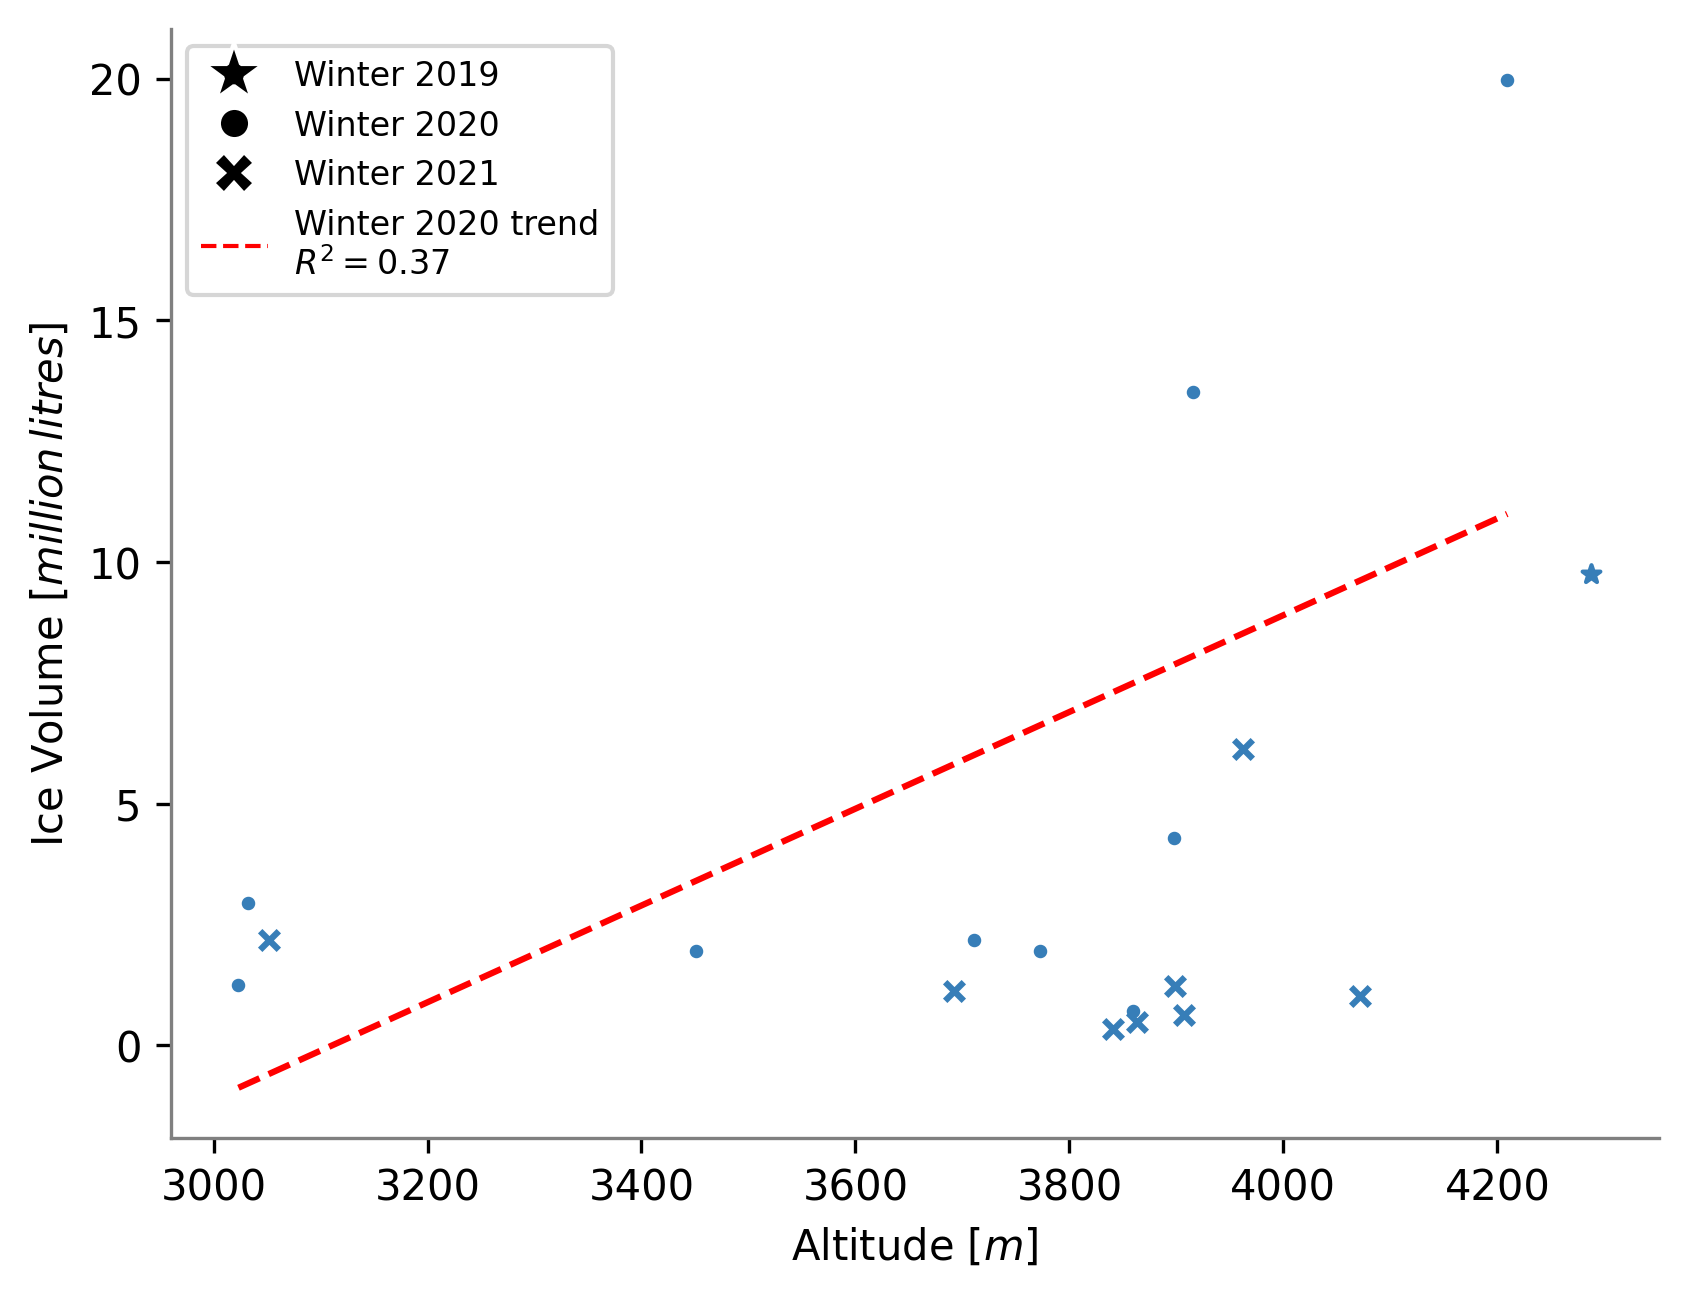
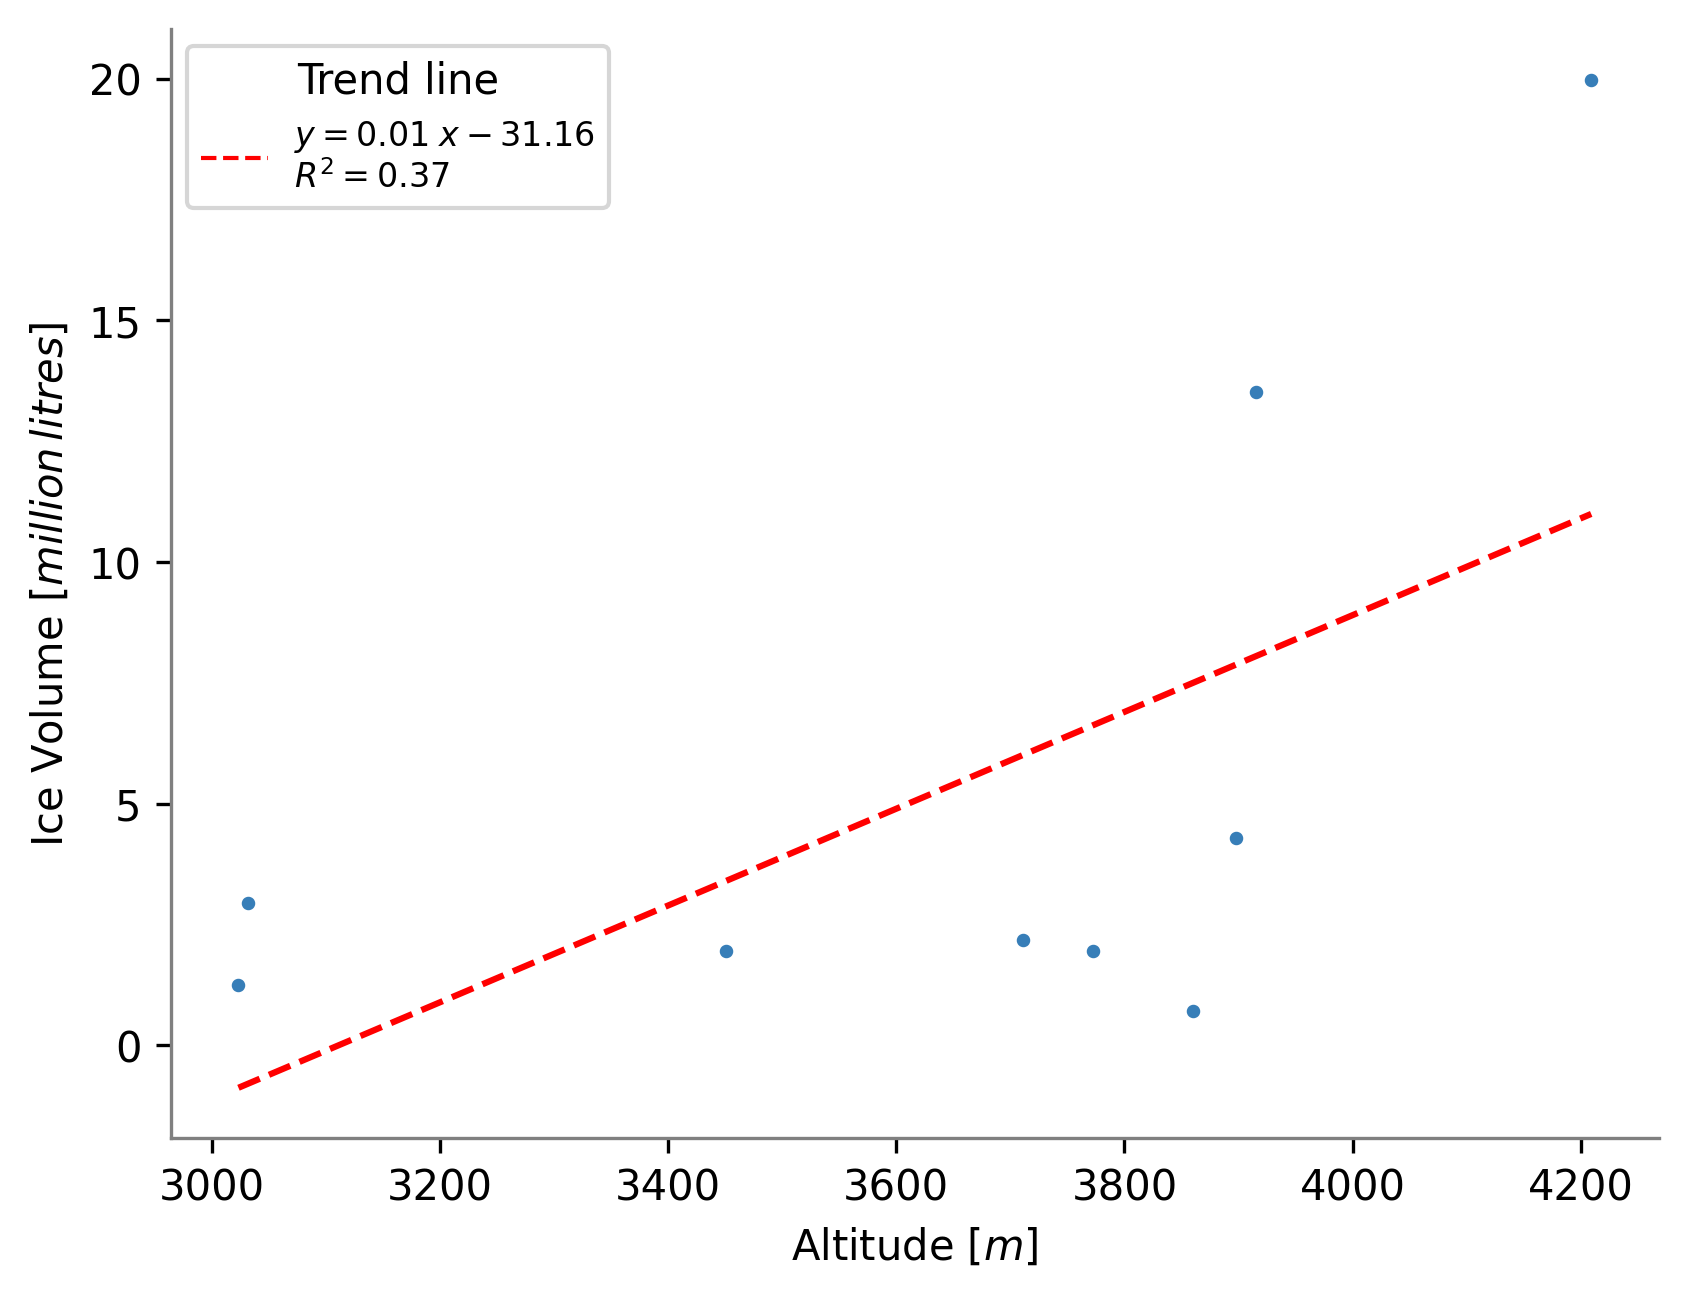
melt_plots

diff --git a/src/misc/ladakh_surveys.py b/src/misc/ladakh_surveys.py
@@ -47,31 +47,35 @@ if __name__ == "__main__":
     p = np.poly1d(z)
     y_hat = np.poly1d(z)(x)
     text = f"$y={z[0]:0.2f}\;x{z[1]:+0.2f}$\n$R^2 = {r2_score(y,y_hat):0.2f}$"
-    text2 = f"Winter 2020 trend\n$R^2 = {r2_score(y,y_hat):0.2f}$"
+    text2 = f"Trend\n$R^2 = {r2_score(y,y_hat):0.2f}$"
 
     mypal = sns.color_palette("Set1", 2)
+    # legend_elements = [
+    #                    Line2D([0], [0], marker='*', color='w', label='Winter 2019',
+    #                           markerfacecolor='k', markersize=15),
+    #                    Line2D([0], [0], marker='.', color='w', label='Winter 2020',
+    #                           markerfacecolor='k', markersize=15),
+    #                    Line2D([0], [0], marker='X', color='w', label='Winter 2021',
+    #                           markerfacecolor='k', markersize=10),
+    #                    Line2D([0], [0], linestyle= '--', lw=1, color='r', label=text2),
+    #                    ]
     legend_elements = [
-                       Line2D([0], [0], marker='*', color='w', label='Winter 2019',
-                              markerfacecolor='k', markersize=15),
-                       Line2D([0], [0], marker='.', color='w', label='Winter 2020',
-                              markerfacecolor='k', markersize=15),
-                       Line2D([0], [0], marker='X', color='w', label='Winter 2021',
-                              markerfacecolor='k', markersize=10),
-                       Line2D([0], [0], linestyle= '--', lw=1, color='r', label=text2),
+                       Line2D([0], [0], linestyle= '--', lw=1, color='r', label=text),
                        ]
 
     fig, ax = plt.subplots()
     plt.plot(x,p(x),"r--")
-    # plt.gca().text(0.05, 0.05, text,transform=plt.gca().transAxes,
-    #      fontsize=10, verticalalignment='top')
-    # ax.scatter(df.Altitude,df.Volume,s=20, color=mypal[1])
+    df = df[df.Winter == '2020']
+    print(df)
+    ax.scatter(df.Altitude,df.Volume,s=20, color=mypal[1], marker='.')
 
-    for i in range(0, df.shape[0]):
-        if df.Name.loc[i].split(" ")[-1] != str(2):
-            ax.scatter(df.Altitude[i],df.Volume[i],s=20, color=mypal[1], marker=dot_dict[df.Winter[i]])
-        else:
-            ax.scatter(df.Altitude[i],df.Volume[i],s=20, color=mypal[1], marker=dot_dict[df.Winter[i]])
-            print(df.Name[i])
+
+    # for i in range(0, df.shape[0]):
+        # if df.Name.loc[i].split(" ")[-1] != str(2):
+        #     ax.scatter(df.Altitude[i],df.Volume[i],s=20, color=mypal[1], marker=dot_dict[df.Winter[i]])
+        # else:
+        #     ax.scatter(df.Altitude[i],df.Volume[i],s=20, color=mypal[1], marker=dot_dict[df.Winter[i]])
+        #     print(df.Name[i])
 
     # Hide the right and top spines
     ax.spines["right"].set_visible(False)
@@ -85,7 +89,7 @@ if __name__ == "__main__":
     ax.xaxis.set_ticks_position("bottom")
     ax.set_ylabel("Ice Volume [$million\,litres$]")
     ax.set_xlabel("Altitude [$m$]")
-    ax.legend(handles=legend_elements, prop={"size": 8}, loc = 'best')
+    ax.legend(handles=legend_elements, prop={"size": 8}, loc = 'best', title='Trend line')
     # plt.savefig("data/figs/slides/ladakh_surveys_0.png", bbox_inches="tight", dpi=300)
     # plt.axvline(x=4200, color = 'k', linestyle = '--', alpha = 0.5, linewidth=0.9)
     plt.savefig("data/figs/thesis/altitudevsvolume.png", bbox_inches="tight", dpi=300)
